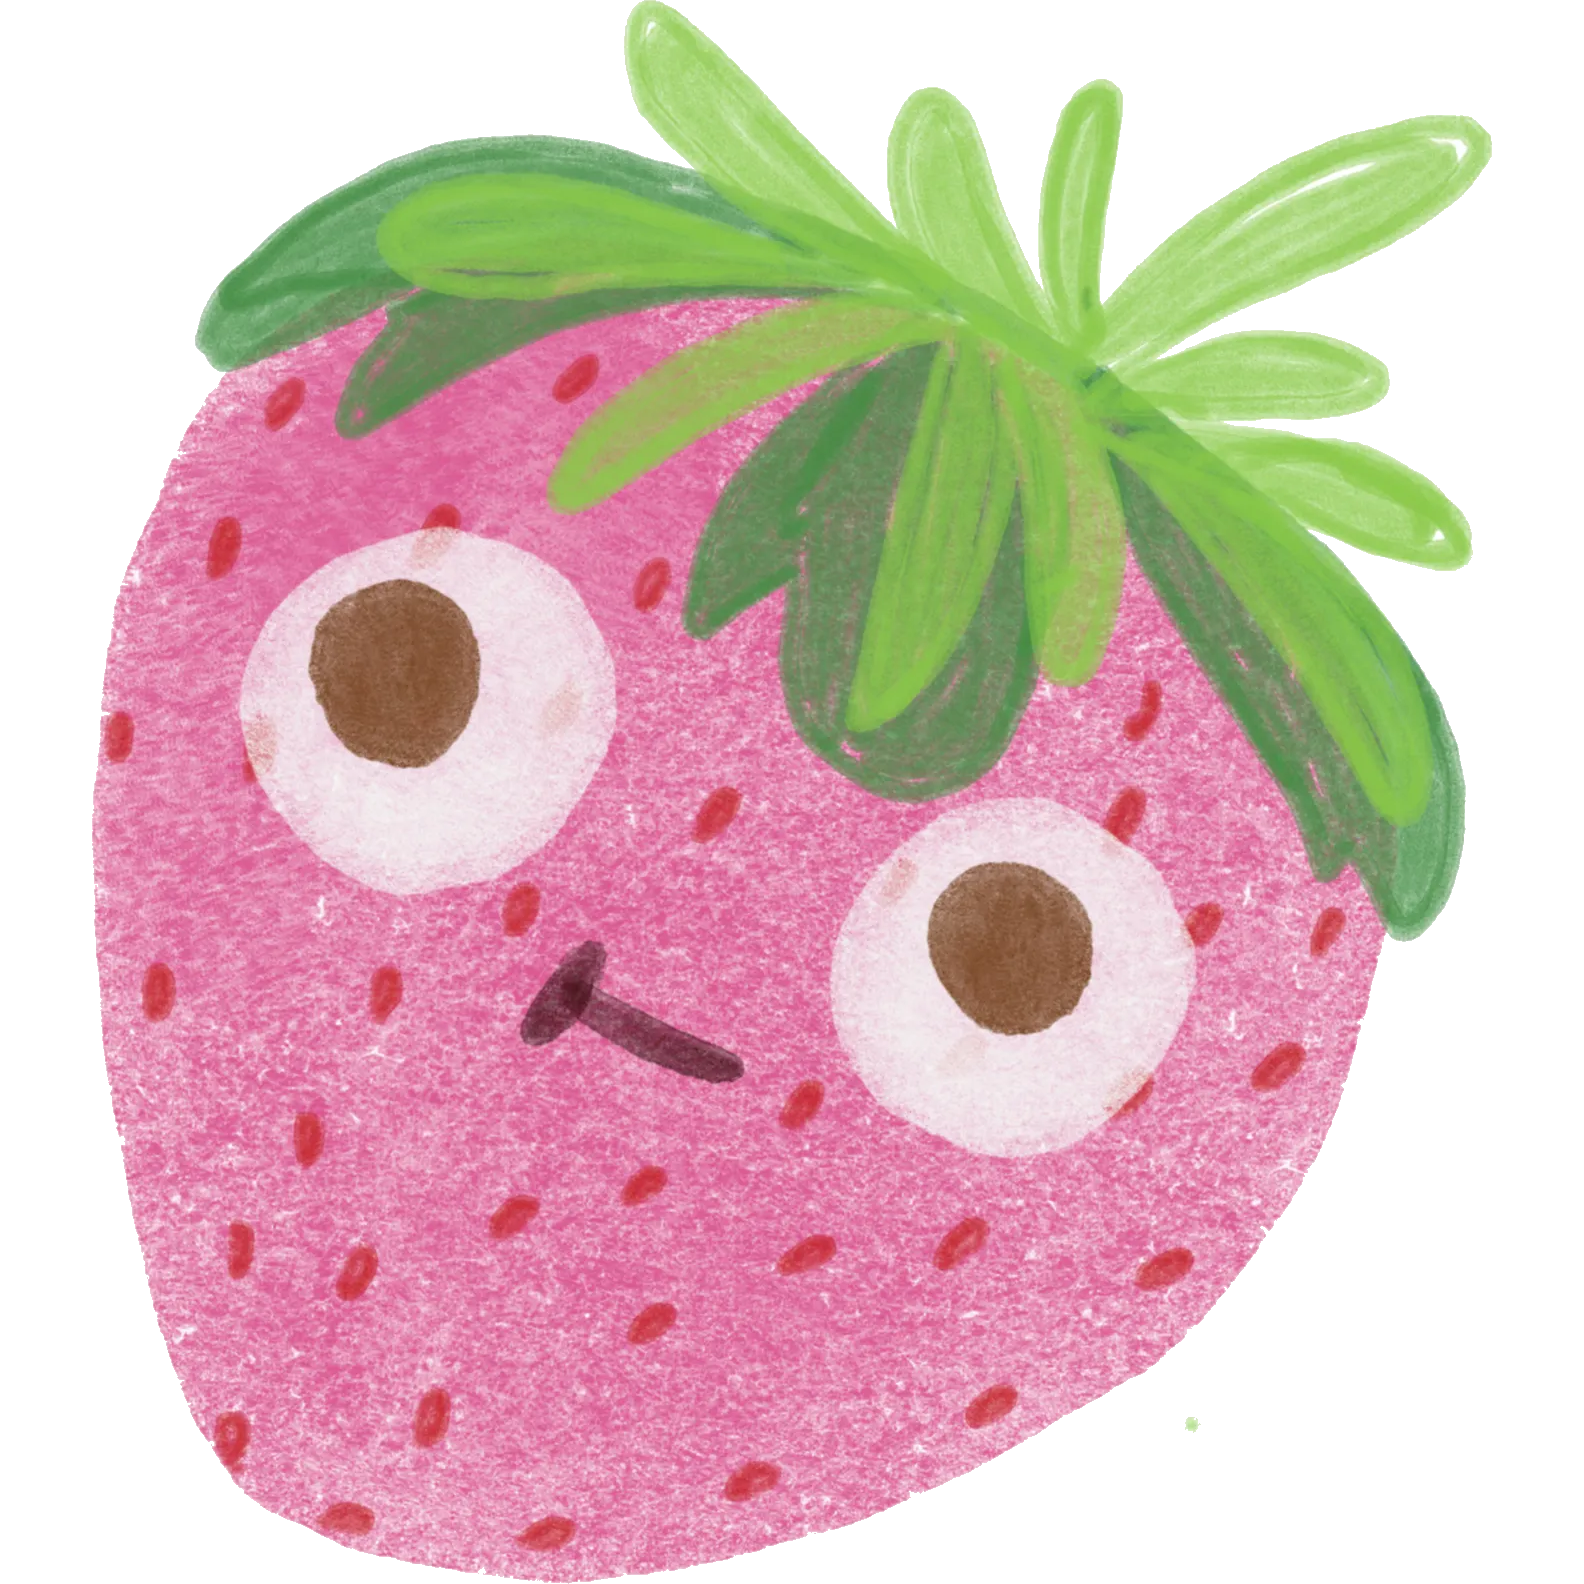
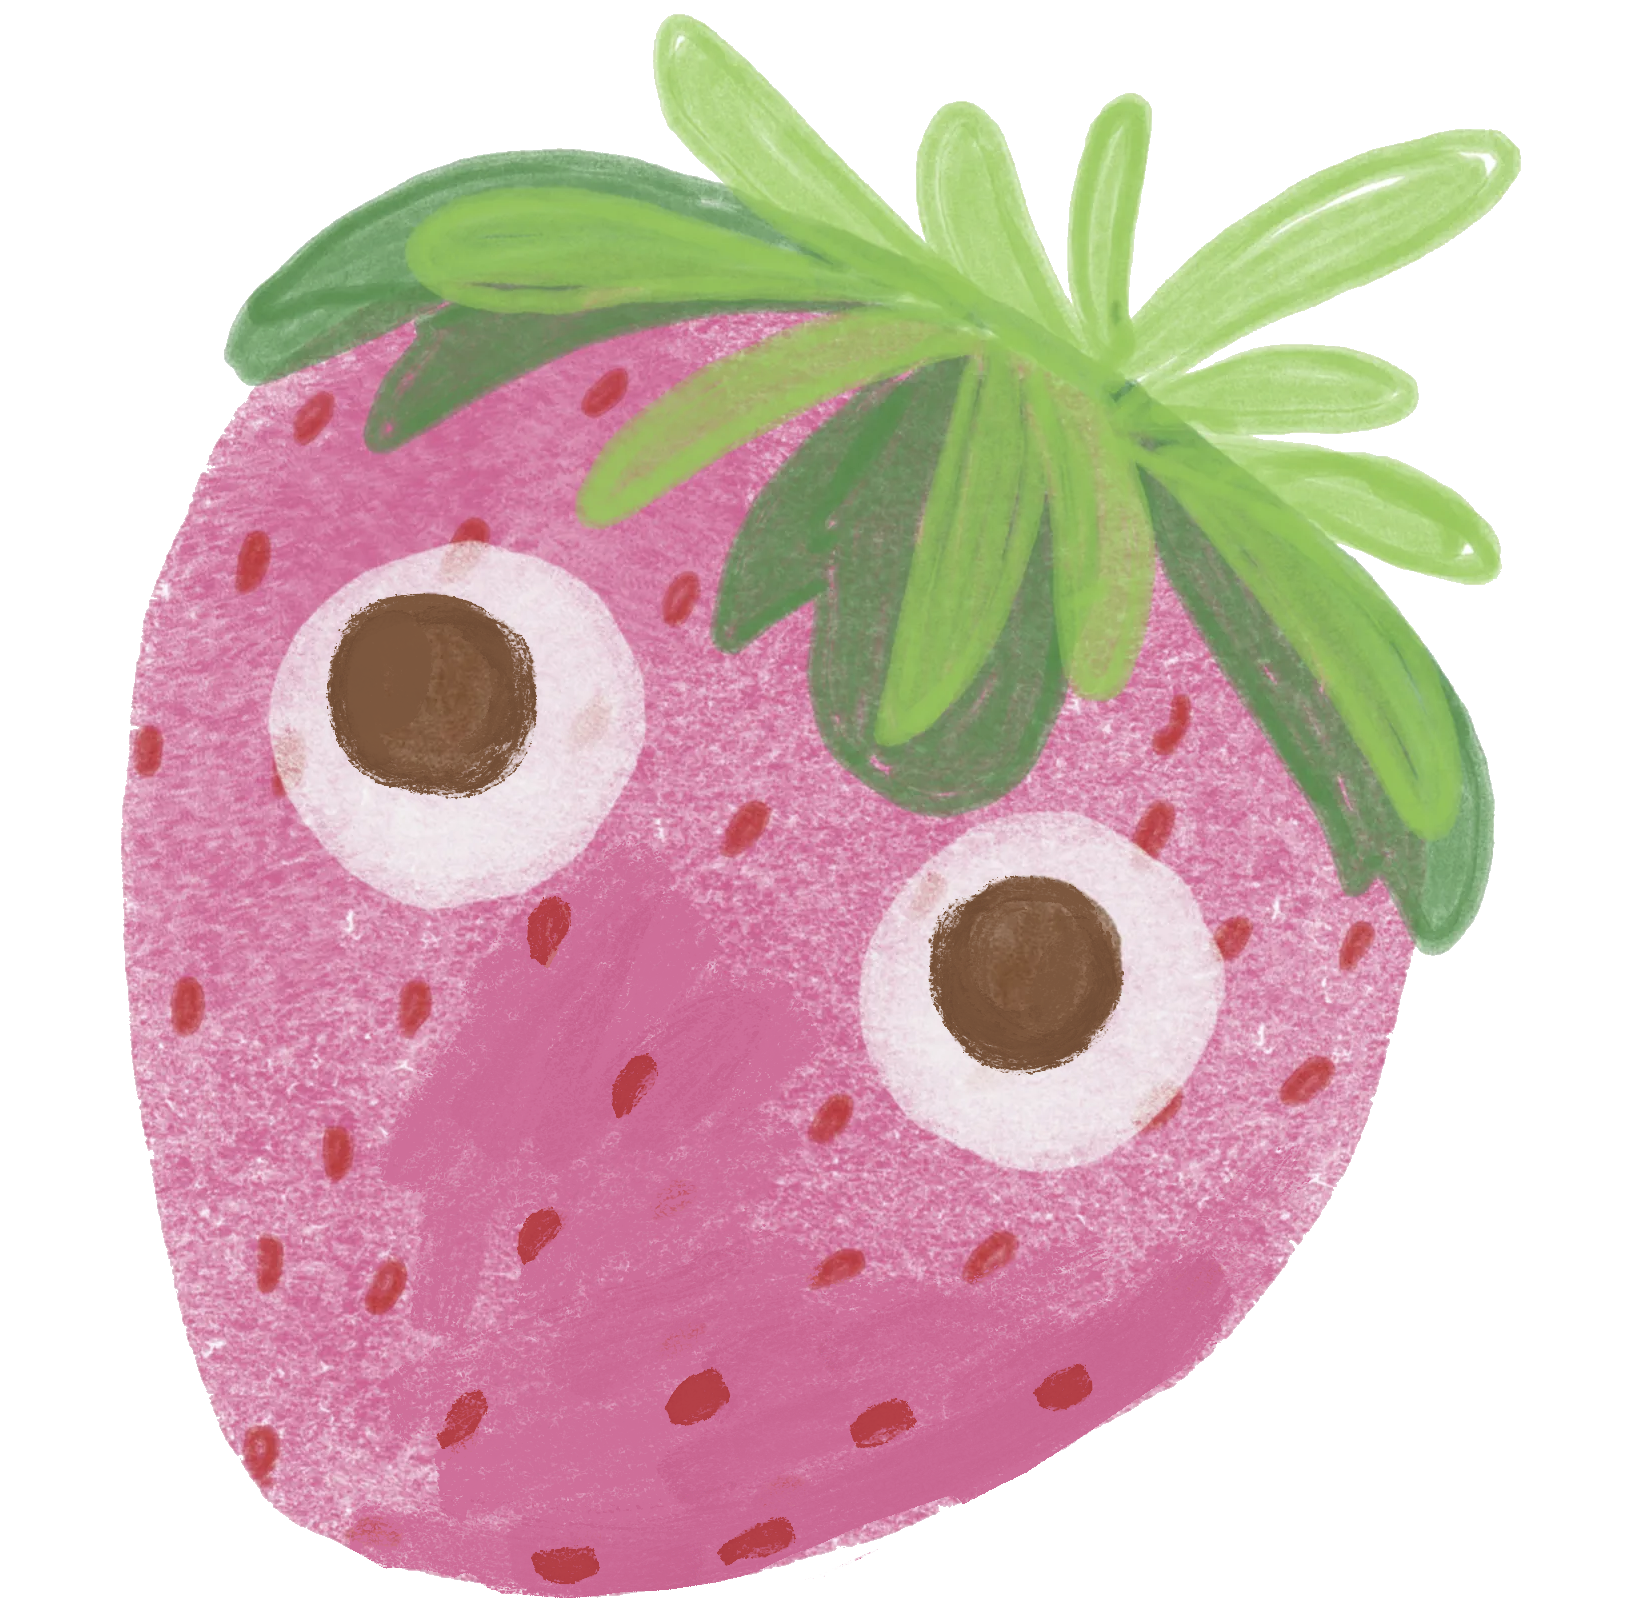
fixing formatting

Changed region(s): [[0.0309, 0.0, 0.928, 1.0], [0.7734, 0.0619, 0.959, 0.1547]]

diff --git a/public/index.html b/public/index.html
@@ -2,14 +2,14 @@
 <html lang="en">
   <head>
     <meta charset="utf-8" />
-    <link rel="icon" type="image/png" href="%PUBLIC_URL%/strawby.webp" />
+    <link rel="icon" type="image/png" href="%PUBLIC_URL%/strawby.png" />
     <meta name="viewport" content="width=device-width, initial-scale=1" />
     <meta name="theme-color" content="#000000" />
     <meta
       name="description"
       content="Shorna's Personal Website!"
     />
-    <link rel="apple-touch-icon" href="%PUBLIC_URL%/strawby.webp" />
+    <link rel="apple-touch-icon" href="%PUBLIC_URL%/strawby.png" />
     <link rel="manifest" href="%PUBLIC_URL%/manifest.json" />
     <title>Shorna's Website</title>
   </head>

diff --git a/src/components/Navbar.js b/src/components/Navbar.js
@@ -8,12 +8,11 @@ function Navbar() {
       <div className="navbar-content">
         <Link to="/" className="home-link">
           <img 
-            src="/strawby.webp" 
+            src="/strawby.png" 
             alt="Substack" 
             style=
             {{
-              width: '80px',
-              height: '80px'
+              width: '100px',
             }}
           />
         </Link>

diff --git a/src/styles/Home.css b/src/styles/Home.css
@@ -88,7 +88,7 @@
     position: absolute;
     right: 5;
     top: 50%;
-    transform: translateY(-25%);
+    transform: translateY(25%);
     width: 14rem;
     pointer-events: none;
     opacity: 0;
